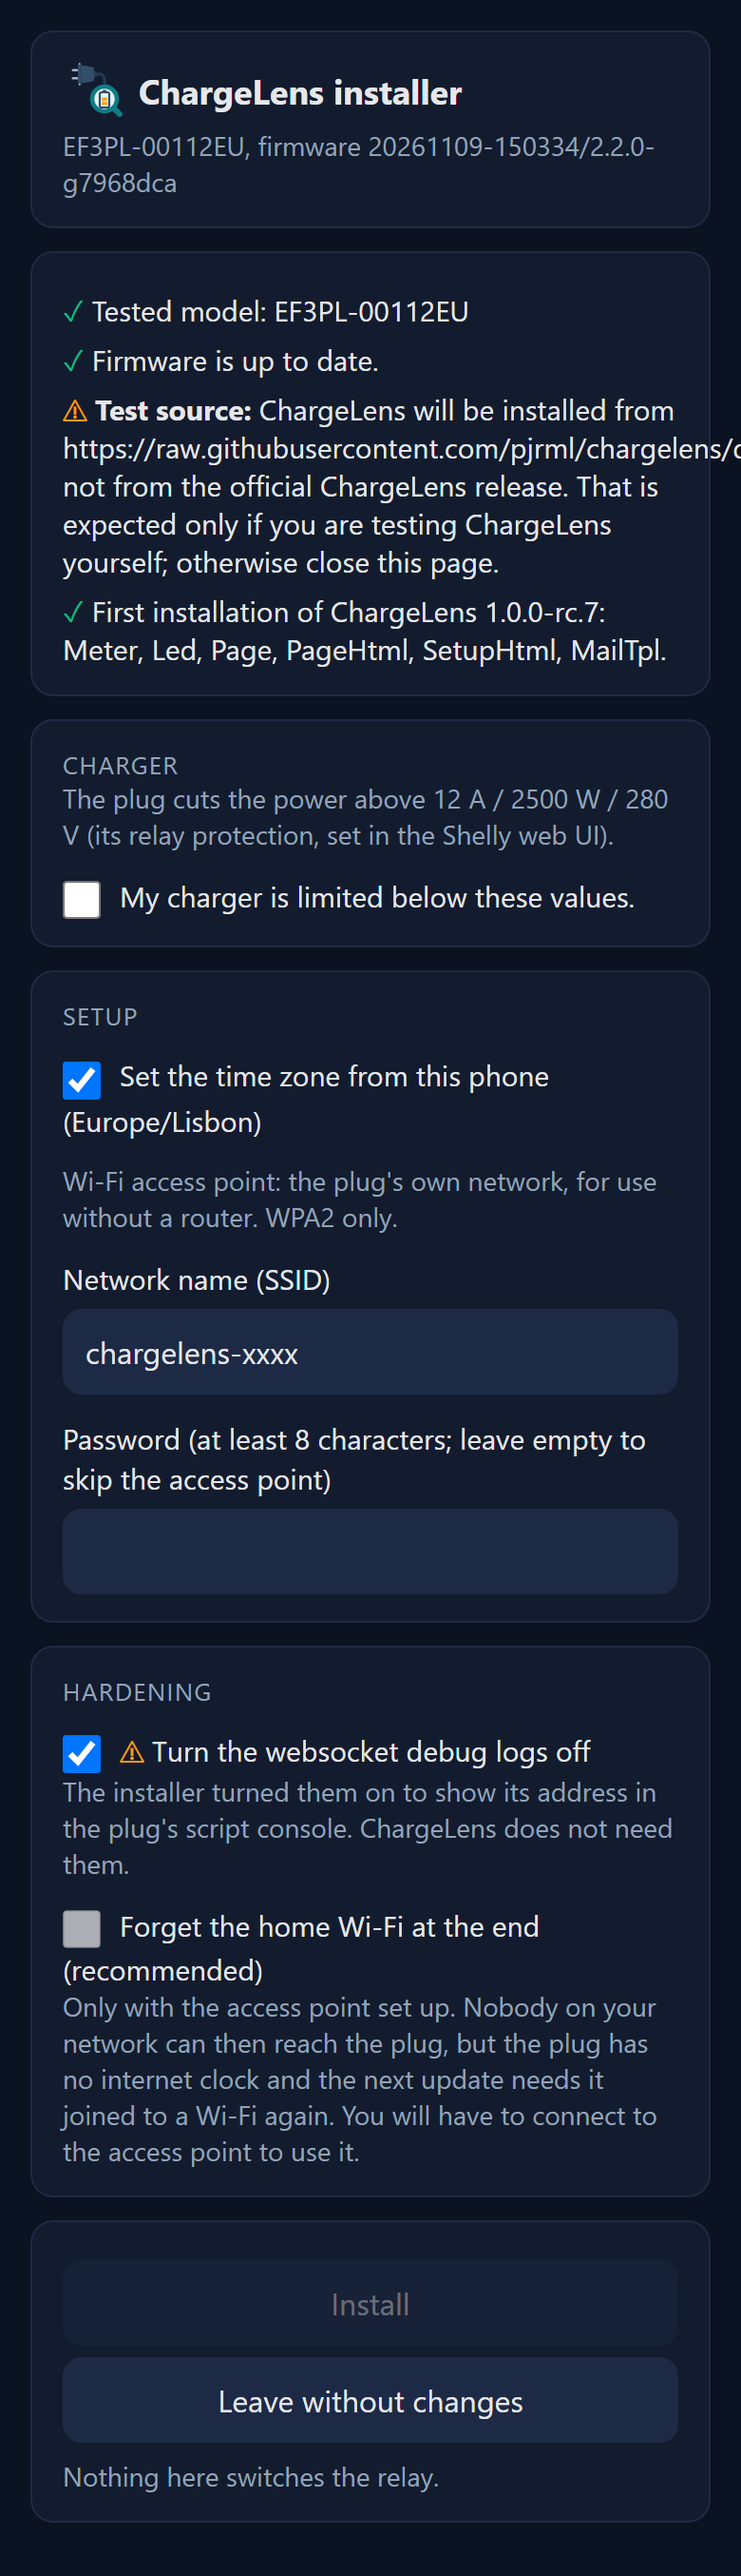
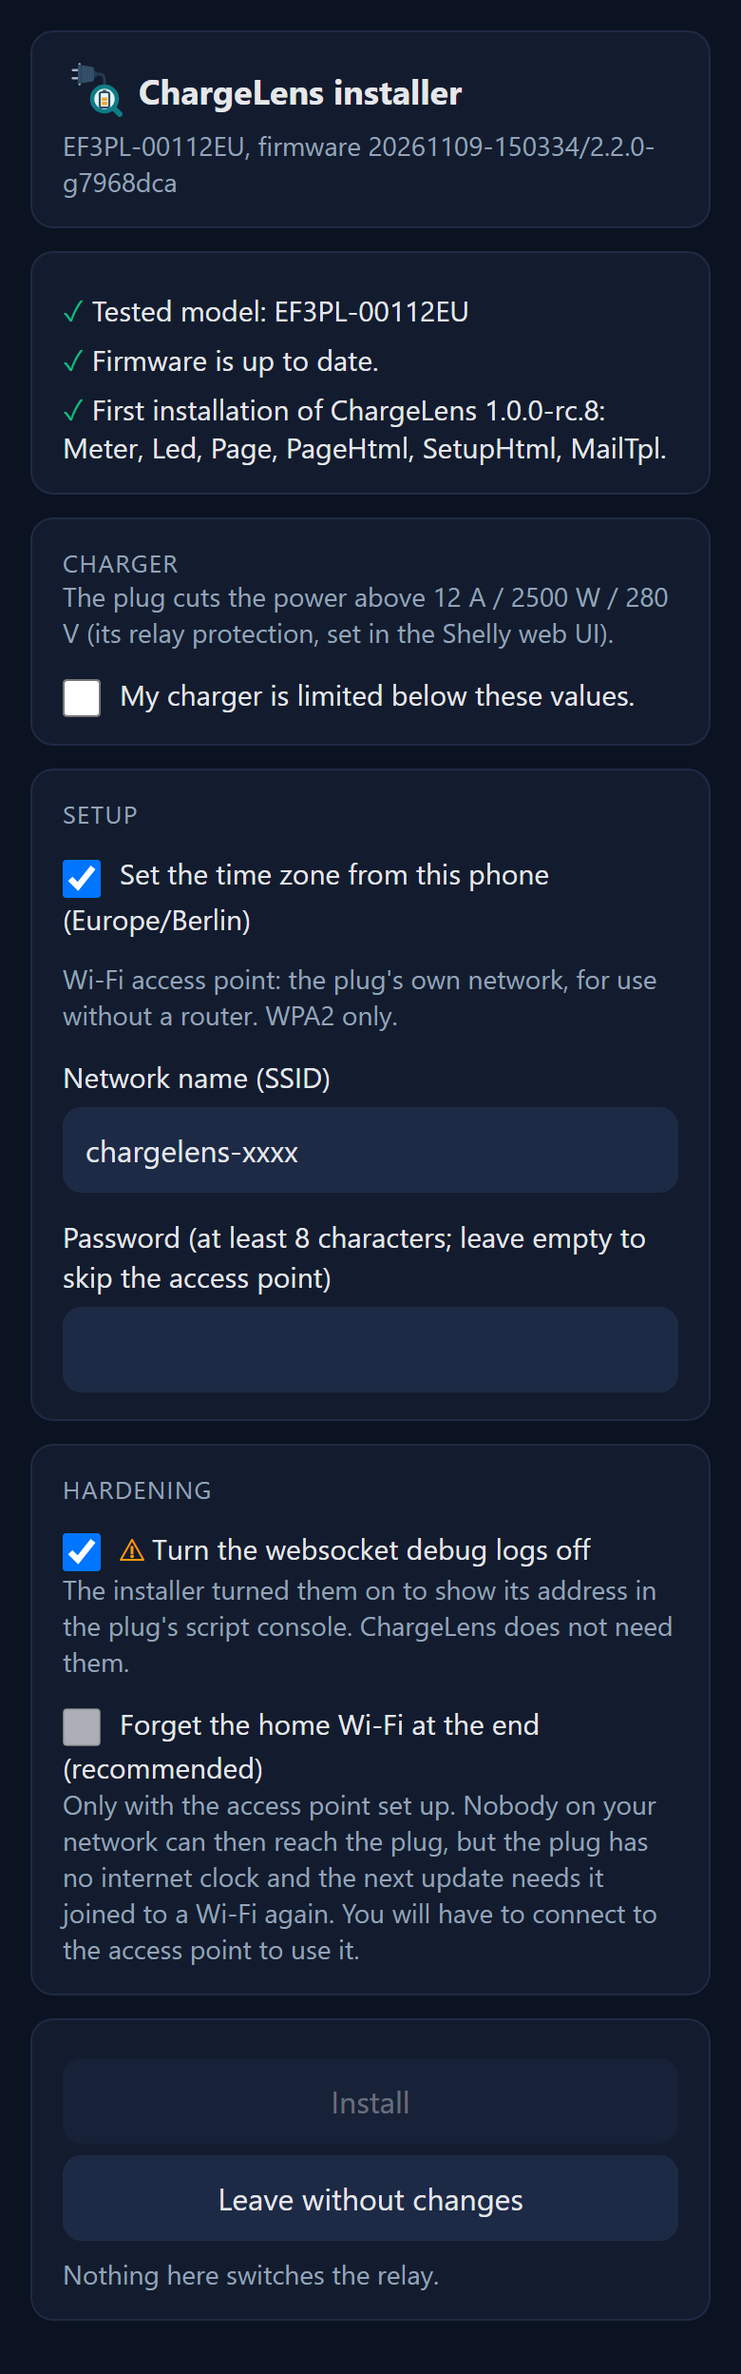
rc.8 screenshots: setup thresholds/relay card, install checks

diff --git a/docs/development.md b/docs/development.md
@@ -64,7 +64,7 @@ DevTools protocol: phone viewport 390 px at 2x for the ChargeLens pages, 1280 px
 months of random energy and sessions written into the KVS with `Meter` stopped; the live power on the daily
 page faked by rewriting the `data` response in the browser; the MAC (and the dev plug's address) replaced in
 the DOM before each capture; the install page loaded with `?base=` on `main` (the developer-base notice
-hidden, since no tag existed). Retake them when a page changes visibly. Document
+hidden, since no tag existed). For 1.0.0-rc.8 `setup-thresholds.png` and `install-checks.png` were retaken on the Gen3 with `tools/drive.py` steps `phone`, `js:` (hide the device name, the test-source notice, the AP name and the time zone) and `shot:`; the install page from `?base=` on `dev` with the ChargeLens scripts removed (first-install view). Retake them when a page changes visibly. Document
 what the code does. There is no fixed charger limit in the code: the installer and the setup page show the
 relay protection values read from the plug (`Switch.GetConfig`), and the docs say "below the plug's relay
 protection values" (`README.md`, `docs/install.md`, `docs/install-manual.md`, `docs/shelly-setup.md`,
